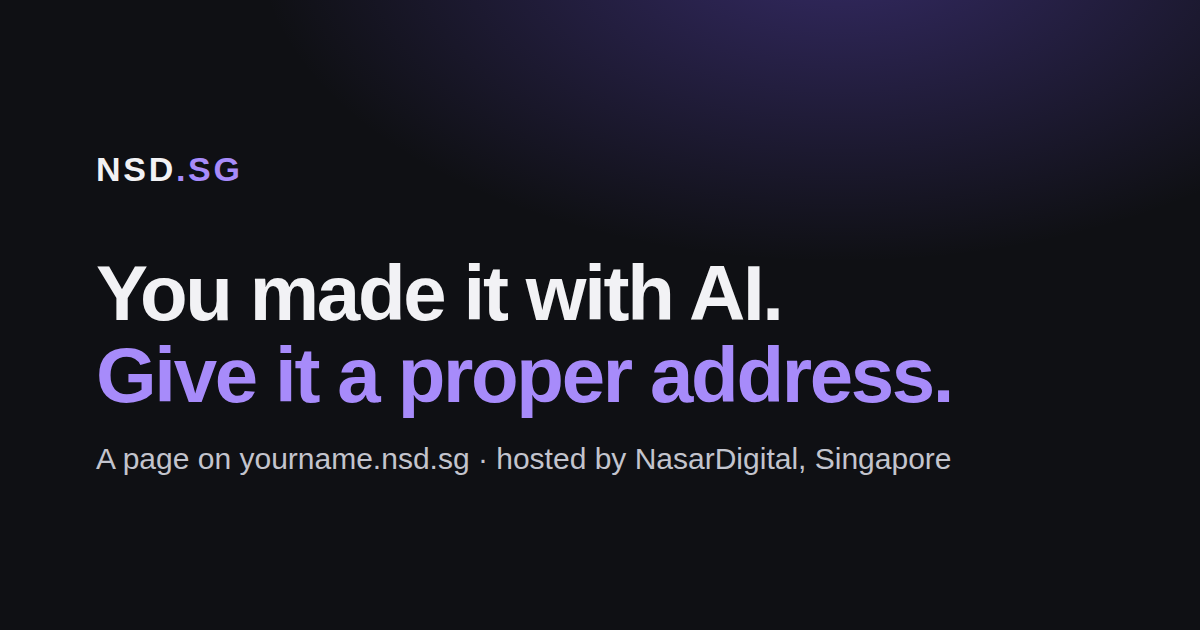
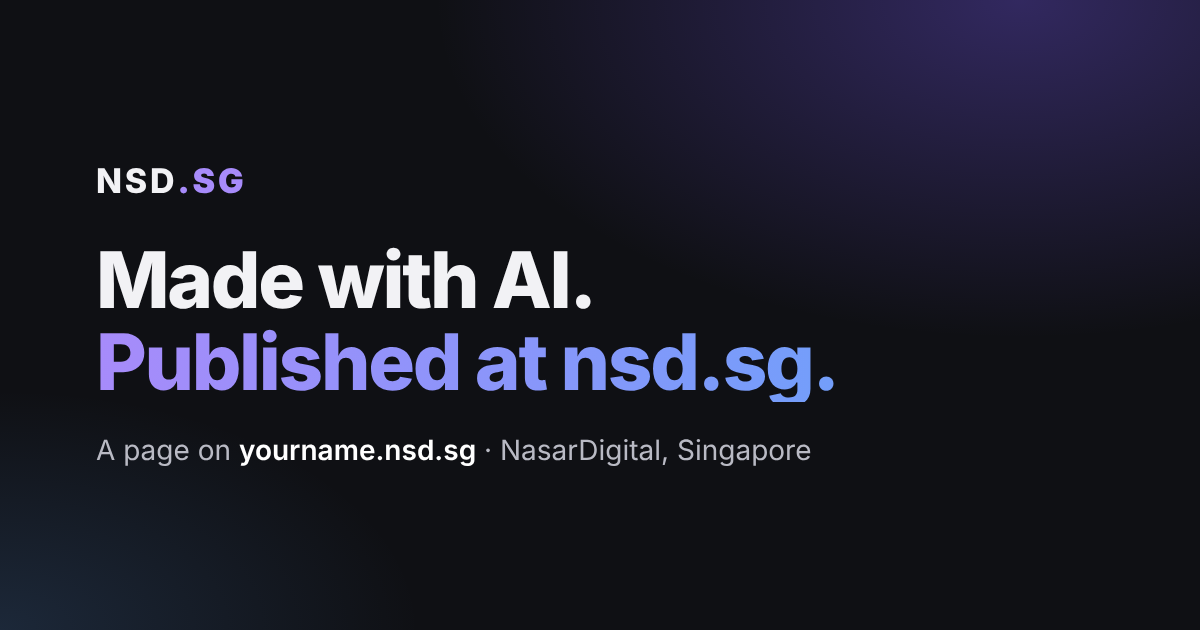
feat(admin,marketing): Sunday funnel card, lead-for-NasarDigital action, link previews with the pain-first wording (0.13.34)
- migration 036: users.agency_lead_at / agency_lead_note; admin user
  action agency_lead on/off with note; pill on the user page
- Overview: funnel card (sites live, WhatsApp taps 7d/30d with paying
  members counted, leads total/30d) and a recent leads table
- head: new meta/og description, og:image -> social-home.png with size
  tags; social-home.png (platform pages) and social-site.png (tenant
  previews) regenerated at 1200x630

Claude-Session: https://claude.ai/code/session_01Fk4M7rZK4v97PmPYg6W6sF

diff --git a/nsd-sg/src/web/views/admin.js b/nsd-sg/src/web/views/admin.js
@@ -6,7 +6,7 @@ const pill = (s) => html`<span class="pill pill-${s}">${s}</span>`;
 const stat = (label, value, sub = '') => html`<div class="stat"><div class="stat-value">${value}</div><div class="stat-label">${label}</div>${sub ? html`<div class="muted small">${sub}</div>` : ''}</div>`;
 const hidden = (csrf, extra = {}) => html`<input type="hidden" name="_csrf" value="${csrf}">${Object.entries(extra).map(([k, v]) => html`<input type="hidden" name="${k}" value="${v}">`)}`;
 
-export function overview({ stats, alerts, recentUsers, recentDeploys, extensions, upgrades, csrf }) {
+export function overview({ stats, alerts, recentUsers, recentDeploys, extensions, upgrades, leads = [], csrf }) {
   return html`<div class="page-head"><h1>Overview</h1><div class="actions"><a class="btn btn-ghost btn-sm" href="/admin/health">System health</a><a class="btn btn-ghost btn-sm" href="/admin/audit">Audit log</a><a class="btn btn-ghost btn-sm" href="/admin/abuse">Abuse reports</a></div></div>
 <div class="stats">
   ${stat('Users', stats.users, `${stats.usersActive} active · +${stats.usersNew7d} this week`)}
@@ -18,6 +18,15 @@ export function overview({ stats, alerts, recentUsers, recentDeploys, extensions
   ${stat('Monthly recurring', `S$${(stats.mrrCents / 100).toFixed(0)}`, `${stats.payers} paying · active HitPay subscriptions`)}
   ${stat('Open abuse', stats.openAbuse)}
   ${stat('Plans expiring ≤14d', stats.expiringSoon, `${stats.expired} already expired`)}
+</div>
+<div class="card funnel"><h2>The Sunday funnel</h2>
+<p class="muted small">Three numbers that say whether nsd.sg is working as a front door. Subscriptions are a bonus.</p>
+<div class="stats three">
+  ${stat('Sites live', stats.live, `${stats.sites} in total`)}
+  ${stat('Talked to you (30 d)', stats.waTaps30d, `${stats.waTaps7d} this week · ${stats.waMemberTaps30d} from paying members · WhatsApp taps`)}
+  ${stat('Leads for NasarDigital', stats.leads, `${stats.leads30d} in the last 30 days · mark one on a user page`)}
+</div>
+${leads.length ? html`<table class="table small"><thead><tr><th>Lead</th><th>Site</th><th>Plan</th><th>Note</th><th>Marked</th></tr></thead><tbody>${leads.map((l) => html`<tr><td><a href="/admin/users/${l.id}">${l.name || l.email}</a><div class="muted small">${l.email}</div></td><td>${l.subdomain ? html`<a href="https://${l.subdomain}.${config.baseDomain}" target="_blank" rel="noopener">${l.subdomain}</a>` : html`<span class="muted">none</span>`}</td><td>${l.plan_id}</td><td class="muted small">${l.agency_lead_note || ''}</td><td class="muted small">${timeAgo(l.agency_lead_at)}</td></tr>`)}</tbody></table>` : html`<p class="muted small">No leads marked yet. When someone's page turns into real NasarDigital work, open their user page and press “Lead for NasarDigital”.</p>`}
 </div>
 <div class="grid two">
 <div class="card"><h2>Extension requests (${extensions.length})</h2>
@@ -56,8 +65,9 @@ export function userDetail({ user, ent, sites, sessions, events, auditRows, plan
   const act = (fields, label, cls = '', confirm = '') => html`<form method="post" action="/admin/users/${user.id}/action" class="inline" ${confirm ? html`data-confirm="${confirm}"` : ''}>${hidden(csrf, fields)}<button class="btn btn-tiny ${cls}">${label}</button></form>`;
   const o = ent.overrides;
   return html`<p class="crumb"><a href="/admin/users">Users</a> / ${user.email}</p>
-<div class="page-head"><div><h1>${user.email} ${pill(user.status)} ${user.role === 'admin' ? pill('admin') : ''} ${user.legal_hold ? pill('legal hold') : ''}</h1><p class="muted">${user.name || 'no name'} · id ${user.id} · joined ${formatDate(user.created_at)} · last login ${timeAgo(user.last_login_at)} from ${user.last_login_ip || '—'} · email ${user.email_verified_at ? 'verified' : 'NOT verified'}${user.google_sub ? ' · Google-linked' : ''}</p></div>
+<div class="page-head"><div><h1>${user.email} ${pill(user.status)} ${user.role === 'admin' ? pill('admin') : ''} ${user.legal_hold ? pill('legal hold') : ''} ${user.agency_lead_at ? pill('lead') : ''}</h1><p class="muted">${user.name || 'no name'} · id ${user.id} · joined ${formatDate(user.created_at)} · last login ${timeAgo(user.last_login_at)} from ${user.last_login_ip || '—'} · email ${user.email_verified_at ? 'verified' : 'NOT verified'}${user.google_sub ? ' · Google-linked' : ''}</p></div>
 <div class="actions">
+  ${user.agency_lead_at ? act({ action: 'agency_lead', value: 'off' }, 'Not a lead after all') : html`<form method="post" action="/admin/users/${user.id}/action" class="inline lead-form">${hidden(csrf, { action: 'agency_lead', value: 'on' })}<input name="note" maxlength="200" placeholder="what they want (optional)"><button class="btn btn-tiny btn-primary" type="submit">Lead for NasarDigital</button></form>`}
   ${user.status !== 'active' ? act({ action: 'activate' }, 'Activate', 'btn-primary') : ''}
   ${user.status === 'active' ? act({ action: 'suspend' }, 'Suspend', 'btn-danger', 'Suspend this user and take all their sites offline?') : ''}
   ${user.status !== 'disabled' ? act({ action: 'disable' }, 'Disable', 'btn-danger', 'Disable this account? They will not be able to log in.') : ''}

diff --git a/nsd-sg/src/web/routes/admin.js b/nsd-sg/src/web/routes/admin.js
@@ -53,6 +53,12 @@ export async function registerAdminRoutes(app) {
       signups30d: q("SELECT COUNT(*) n FROM users WHERE created_at > datetime('now','-30 days') AND role != 'admin'").n,
       activated30d: q("SELECT COUNT(*) n FROM users u WHERE u.created_at > datetime('now','-30 days') AND u.role != 'admin' AND EXISTS (SELECT 1 FROM releases r JOIN sites s ON s.id = r.site_id WHERE s.user_id = u.id AND r.created_at <= strftime('%Y-%m-%dT%H:%M:%fZ', u.created_at, '+1 day'))").n,
       nudged30d: q("SELECT COUNT(*) n FROM plan_notices WHERE kind = 'nudge_day0' AND ref > datetime('now','-30 days')").n,
+      // The Sunday funnel: sites live, people who talked to you, leads for the agency.
+      waTaps7d: q("SELECT COUNT(*) n FROM audit_log WHERE action = 'support.whatsapp_tap' AND at > datetime('now','-7 days')").n,
+      waTaps30d: q("SELECT COUNT(*) n FROM audit_log WHERE action = 'support.whatsapp_tap' AND at > datetime('now','-30 days')").n,
+      waMemberTaps30d: q("SELECT COUNT(*) n FROM audit_log WHERE action = 'support.whatsapp_tap' AND at > datetime('now','-30 days') AND details LIKE '%member, %'").n,
+      leads: q('SELECT COUNT(*) n FROM users WHERE agency_lead_at IS NOT NULL').n,
+      leads30d: q("SELECT COUNT(*) n FROM users WHERE agency_lead_at > datetime('now','-30 days')").n,
       requests7d: q("SELECT COALESCE(SUM(requests),0) n FROM site_traffic_daily WHERE day >= date('now','-7 days')").n,
       bytes7d: q("SELECT COALESCE(SUM(bytes),0) n FROM site_traffic_daily WHERE day >= date('now','-7 days')").n,
       openAbuse: q("SELECT COUNT(*) n FROM abuse_reports WHERE status IN ('open','reviewing')").n,
@@ -63,9 +69,10 @@ export async function registerAdminRoutes(app) {
     };
     const alerts = all("SELECT * FROM audit_log WHERE severity IN ('warn','alert') ORDER BY at DESC LIMIT 15");
     const recentUsers = all('SELECT id, email, name, plan_id, status, created_at FROM users ORDER BY created_at DESC LIMIT 8');
+    const leads = all("SELECT u.id, u.email, u.name, u.plan_id, u.agency_lead_at, u.agency_lead_note, (SELECT subdomain FROM sites s WHERE s.user_id = u.id AND s.status != 'deleted' ORDER BY s.created_at LIMIT 1) subdomain FROM users u WHERE u.agency_lead_at IS NOT NULL ORDER BY u.agency_lead_at DESC LIMIT 12");
     const recentDeploys = all('SELECT r.*, s.subdomain FROM releases r JOIN sites s ON s.id = r.site_id ORDER BY r.created_at DESC LIMIT 8');
     const upgrades = all("SELECT e.*, u.email FROM plan_events e JOIN users u ON u.id = e.user_id WHERE e.type = 'upgrade_requested' AND e.created_at > datetime('now','-30 days') ORDER BY e.created_at DESC LIMIT 10");
-    return render(req, reply, { title: 'Overview', active: 'overview', body: V.overview({ stats, alerts, recentUsers, recentDeploys, extensions: pendingExtensionRequests(), upgrades, csrf: csrfTokenFor(req) }) });
+    return render(req, reply, { title: 'Overview', active: 'overview', body: V.overview({ stats, alerts, recentUsers, recentDeploys, extensions: pendingExtensionRequests(), upgrades, leads, csrf: csrfTokenFor(req) }) });
   });
 
   // ---- users ----
@@ -114,6 +121,14 @@ export async function registerAdminRoutes(app) {
     const back = `/admin/users/${user.id}`;
     const isSelf = user.id === req.user.id;
     switch (action) {
+      case 'agency_lead': {
+        const on = b.value === 'on';
+        const note = String(b.note ?? '').slice(0, 200);
+        getDb().prepare('UPDATE users SET agency_lead_at = ?, agency_lead_note = ?, updated_at = ? WHERE id = ?').run(on ? nowIso() : null, on ? note : '', nowIso(), user.id);
+        audit({ req, action: on ? 'admin.user.agency_lead_on' : 'admin.user.agency_lead_off', targetType: 'user', targetId: user.id, details: { note } });
+        flash(reply, 'success', on ? 'Marked as a lead for NasarDigital. It is on the Overview funnel now.' : 'No longer marked as a lead.');
+        break;
+      }
       case 'legal_hold': {
         const on = b.value === 'on';
         setLegalHold(user.id, on);

diff --git a/nsd-sg/src/web/views/layout.js b/nsd-sg/src/web/views/layout.js
@@ -73,14 +73,14 @@ function head(title, { description = '' } = {}) {
   return html`<!doctype html><html lang="en"><head><meta charset="utf-8">
 <meta name="viewport" content="width=device-width,initial-scale=1">
 <title>${title ? `${title} · NSD.SG` : 'NSD.SG — You made it with AI. Give it a proper address.'}</title>
-<meta name="description" content="${description || 'Made a page with Claude, ChatGPT or Gemini? Paste the code and it is online at yourname.nsd.sg in a minute. Free to start. Try it without an account.'}">
+<meta name="description" content="${description || 'Made something with AI? The link it gives you is random letters, a file on your laptop, or a page in someone else’s branding. Paste it at nsd.sg and it lives at yourname.nsd.sg in a minute. Free. A real person in Singapore behind it.'}">
 <link rel="stylesheet" href="/assets/app.css?v=${config.version}">
 <link rel="icon" href="/assets/favicon.svg" type="image/svg+xml">
 <meta name="theme-color" content="#0f1014">
 <meta property="og:site_name" content="NSD.SG"><meta property="og:type" content="website">
 <meta property="og:title" content="${title ? `${title} · NSD.SG` : 'NSD.SG — You made it with AI. Give it a proper address.'}">
-<meta property="og:description" content="${description || 'Made a page with Claude, ChatGPT or Gemini? Paste the code, or connect your AI, and it is online at yourname.nsd.sg in a minute. Free to start.'}">
-<meta property="og:image" content="${config.publicScheme}://${config.platformHosts[0]}/assets/social-site.png"><meta name="twitter:card" content="summary_large_image">
+<meta property="og:description" content="${description || 'Made something with AI? Sharing it is the hard part. Paste it at nsd.sg, or let your AI publish it, and it lives at yourname.nsd.sg in a minute. Free, with a real person in Singapore behind it.'}">
+<meta property="og:image" content="${config.publicScheme}://${config.platformHosts[0]}/assets/social-home.png?v=${config.version}"><meta property="og:image:width" content="1200"><meta property="og:image:height" content="630"><meta name="twitter:card" content="summary_large_image">
 </head>`;
 }
 

diff --git a/nsd-sg/test/integration.test.js b/nsd-sg/test/integration.test.js
@@ -57,6 +57,9 @@ test('marketing pages render', async () => {
   assert.match(r.body, /application\/ld\+json/);
   assert.match(r.body, /"@type":"FAQPage"/);
   assert.match(r.body, /property="og:title"/);
+  assert.match(r.body, /og:image" content="http:\/\/nsd\.test\/assets\/social-home\.png/);
+  assert.match(r.body, /og:description" content="Made something with AI\? Sharing it is the hard part/);
+  assert.equal((await get('/assets/social-home.png')).statusCode, 200);
   assert.doesNotMatch(r.body, /id="features"/, 'the repetitive feature list is gone');
   assert.match(r.body, /Also included:/);
   assert.match(r.body, /People who build with AI tools/);
@@ -757,4 +760,20 @@ test('testimonials: admin adds a quote and it shows on the home page; hide remov
   assert.match(bill, /Plus yearly/);
   assert.match(bill, /S\$90\/year/);
   assert.match(bill, /two months free/);
+});
+
+test('admin funnel: a user can be marked as a lead for NasarDigital and shows on the Overview funnel', async () => {
+  const bobId = getDb().prepare("SELECT id FROM users WHERE email = 'bob@example.com'").get().id;
+  let ov = (await get('/admin', admin.cookie)).body;
+  assert.match(ov, /The Sunday funnel/);
+  assert.match(ov, /Talked to you \(30 d\)/);
+  assert.match(ov, /No leads marked yet/);
+  const r = await post(`/admin/users/${bobId}/action`, admin.cookie, { action: 'agency_lead', value: 'on', note: 'wants a proper site for his stall' });
+  assert.equal(r.statusCode, 302, r.body);
+  assert.match((await get(`/admin/users/${bobId}`, admin.cookie)).body, /Not a lead after all/);
+  ov = (await get('/admin', admin.cookie)).body;
+  assert.match(ov, /wants a proper site for his stall/);
+  assert.doesNotMatch(ov, /No leads marked yet/);
+  await post(`/admin/users/${bobId}/action`, admin.cookie, { action: 'agency_lead', value: 'off' });
+  assert.match((await get(`/admin/users/${bobId}`, admin.cookie)).body, /Lead for NasarDigital/);
 });

diff --git a/nsd-sg/src/services/roadmap.js b/nsd-sg/src/services/roadmap.js
@@ -143,6 +143,8 @@ const SEED_ROADMAP = [
   ['rm-watchdog', 'Abuse-name watchdog', 'Names that break the terms (adult, gambling, scams, impersonation) are refused at signup and logged.', 'shipped', 'admin', 907],
 ];
 const SEED_CHANGELOG = [
+  ['cl-0-13-34', '0.13.34', 'Link previews with the new words; the Sunday funnel for admin', `- Changed: when you share nsd.sg on WhatsApp or anywhere else, the preview card now carries the new words: made something with AI, sharing it is the hard part, a real person in Singapore behind it.
+- Admin: the Overview opens with the three numbers that matter, sites live, people who talked to you (WhatsApp taps, with paying members counted separately) and leads for NasarDigital, with a “Lead for NasarDigital” button on every user page.`, 'improved', '2026-10-26T04:00:00Z'],
   ['cl-0-13-33', '0.13.33', 'Paying members, looked after properly', `- New: an email for every money moment: payment received (what you have, next charge, how to cancel), card saved for later, a scheduled switch, a cancellation with the paid-until date, a failed card with three days to fix it, a refund on its way, and a heads-up seven days before a yearly renewal.
 - Changed: switching plans while paying (say, Plus monthly to Plus yearly) starts the new plan on the day your current paid period ends. The old subscription stops charging now. Nothing lost, nothing double.
 - Changed: reminders to a member whose paid plan is ending say “your Plus plan”, not “your free period”, and point to resubscribing.

diff --git a/nsd-sg/src/public/app.css b/nsd-sg/src/public/app.css
@@ -282,3 +282,6 @@ hr{border:0;border-top:1px solid var(--line);margin:20px 0}
 
 /* What people say */
 .voice{margin:0;display:flex;flex-direction:column;gap:12px}.voice blockquote{margin:0;font-size:1.02rem;line-height:1.55;color:var(--text)}.voice figcaption{font-size:.9rem;color:var(--text-2)}.voice figcaption a{color:var(--accent2);text-decoration:none}
+
+/* Admin funnel + lead form */
+.stats.three{grid-template-columns:repeat(auto-fit,minmax(220px,1fr))}.funnel{margin-bottom:20px}.lead-form{display:inline-flex;gap:6px;align-items:center}.lead-form input{max-width:220px;margin:0;padding:6px 10px;font-size:.85rem}
